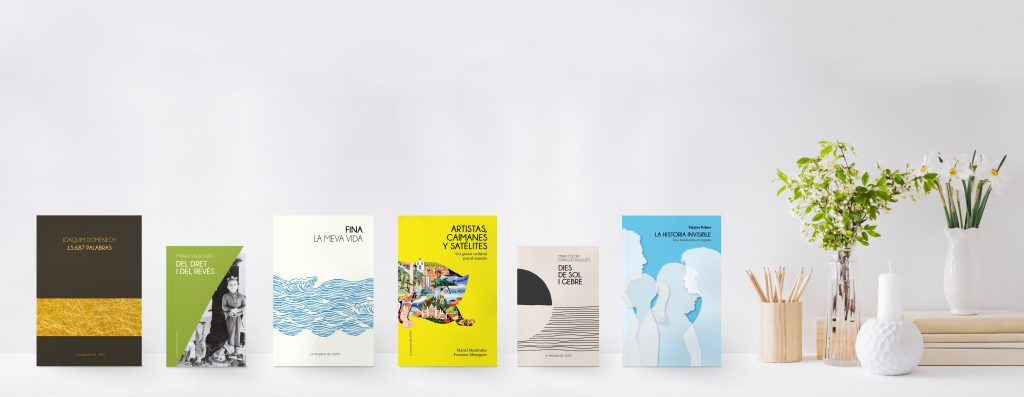
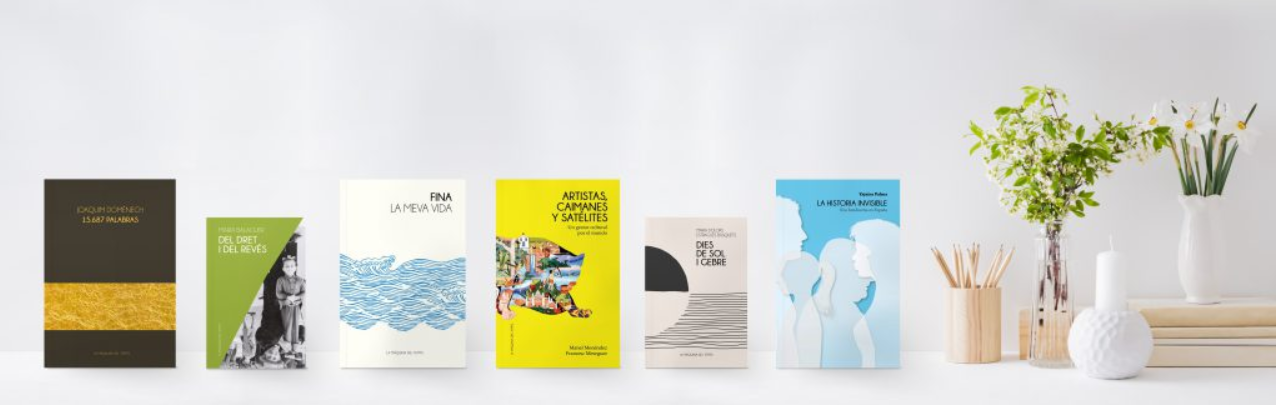
Top image height is shortened to make better use of space.
Second version of User Profile created.

1. User profile public
2. User profile private

Changed region(s): [[0.0312, 0.2116, 1.0, 0.9673], [0.625, 0.9068, 0.7188, 0.937], [0.6562, 0.8463, 0.6875, 0.8766]]

diff --git a/public/css/user_profile.css b/public/css/user_profile.css
@@ -66,6 +66,27 @@ header a {
     border-radius: 5px;
 }
 
+#request_button {
+    width: 50%;
+    margin: 0 auto;
+    background-color: rgba(255, 165, 0, 1); /* Orange with full opacity */
+    color: white;
+    border: 2px solid orange;
+    padding: 10px;
+    border-radius: 10px;
+    transition: background-color 0.3s;
+    font-family: 'Playfair', serif;
+    font-weight: bold; /* Make the letter thicker */
+    font-size: 16px; /* Adjust the font size as desired */
+}
+
+/* Change the background color on hover */
+#request_button:hover {
+    background-color: hotpink;
+    color: white;
+    border: 2px solid hotpink;
+}
+
 .show {
     display: block;
 }
@@ -158,7 +179,7 @@ footer {
 
 .Description{
     font-size: 20px;
-    margin-top: 50px;
+    margin-top: 70px;
     margin-left: 50px;
 }
 
@@ -186,7 +207,7 @@ footer {
 
 .user-name {
     font-size: 26px;
-    margin-bottom: 5px;
+    margin-bottom: 15px;
 }
 
 .personal-info{
@@ -196,11 +217,12 @@ footer {
 .info-label {
     font-weight: bold;
     margin-bottom: 5px;
+    margin-top: 36px;
 }
 
 .info-value {
     margin-bottom: 10px;
-    margin-left: 25px;
+    margin-left: 0px;
 }
 
 

diff --git a/src/Controller/HomeController.php b/src/Controller/HomeController.php
@@ -55,4 +55,20 @@ class HomeController extends AbstractController
             'birthday' => $user->getBirthday()->format('Y-m-d'),
         ]);
     }
+
+    #[Route('/profile/public', name: 'app_user_profile_public')]
+    public function getProfilePublic(Request $request, UserRepository $userRepository): Response
+    {
+        $user = $this->getUser();
+
+        return $this->render('user_profile_public/index.html.twig', [
+            'controller_name' => 'HomeController',
+            'user' => $user,
+            'firstname' => $user->getFirstName(),
+            'lastname' => $user->getLastName(),
+            'email' => $user->getEmail(),
+            'address' => $user->getAddress(),
+            'birthday' => $user->getBirthday()->format('Y-m-d'),
+        ]);
+    }
 }
